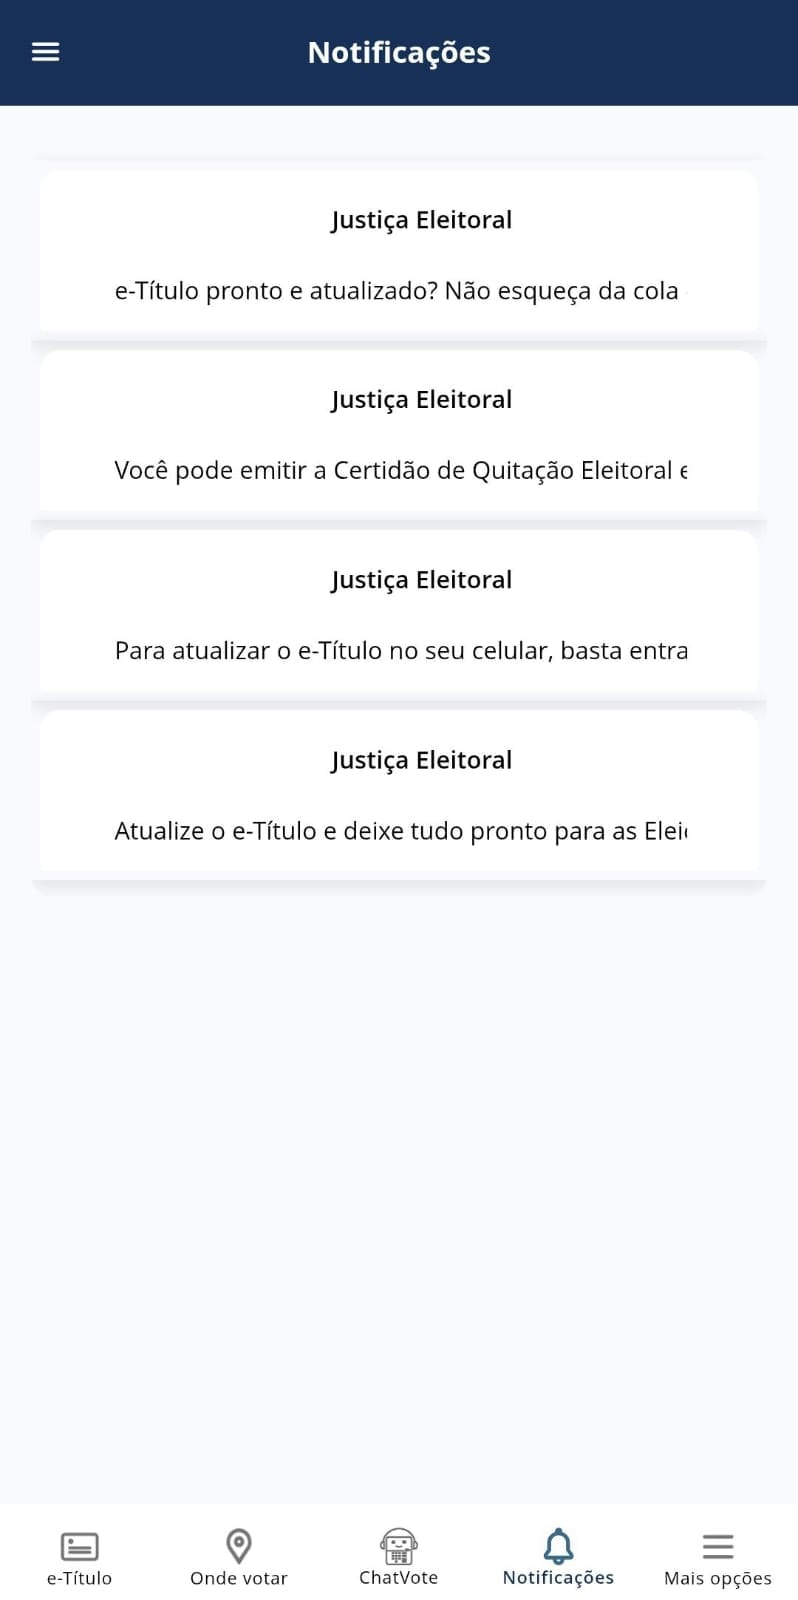
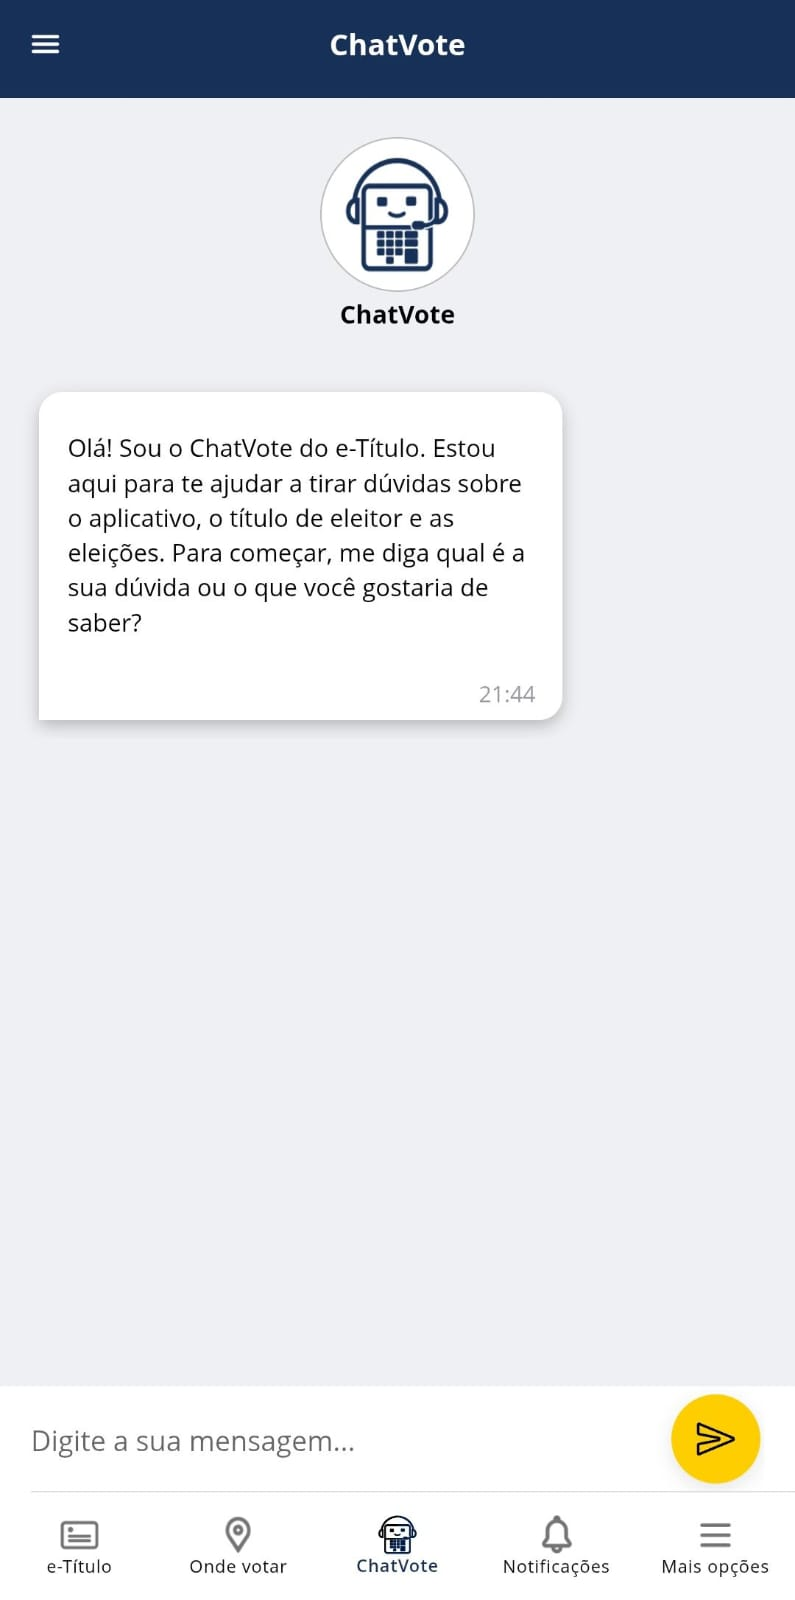
feat(004): ChatVote volta ao guia do e-Titulo como passo 4 (T135)
Captura limpa do ChatVote enviada pelo Henrique. O guia passa a 6 passos:
entrar, titulo, Onde votar (destaca o ChatVote), ChatVote (destaca
Notificacoes), Notificacoes e Mais opcoes. Destaques conferidos sobre as
imagens.

diff --git a/app/lib/l10n/textos_guias.dart b/app/lib/l10n/textos_guias.dart
@@ -399,21 +399,27 @@ abstract final class TextosGuias {
       'Tela principal do e-Título com um título de eleitor de exemplo: foto, nome, número, zona e seção. Embaixo, as opções e-Título, Onde votar, Notificações e Mais opções.';
   /// Passo 3 do e-Título.
   static const String eTituloPasso3 =
-      'Aqui aparecem o lugar onde você vota, a seção e a zona. Para ver os avisos da Justiça Eleitoral, toque em "Notificações", embaixo, a segunda opção da direita.';
+      'Aqui aparecem o lugar onde você vota, a seção e a zona. Para tirar uma dúvida sobre as eleições, toque em "ChatVote", embaixo, no meio.';
   /// Descrição da captura do passo 3 do e-Título.
   static const String eTituloCaptura3 =
       'Tela Onde votar do e-Título, com um mapa e um cartão com a seção, a zona e uma escola de exemplo como local de votação.';
   /// Passo 4 do e-Título.
   static const String eTituloPasso4 =
-      'Aqui chegam os avisos da Justiça Eleitoral. Para ver tudo o que o e-Título faz, toque em "Mais opções", embaixo, à direita.';
+      'No ChatVote você escreve a sua dúvida no campo de baixo e toca na seta amarela para enviar. Para ver os avisos da Justiça Eleitoral, toque em "Notificações", embaixo, a segunda opção da direita.';
   /// Descrição da captura do passo 4 do e-Título.
   static const String eTituloCaptura4 =
-      'Tela de Notificações do e-Título com quatro avisos da Justiça Eleitoral.';
+      'Tela do ChatVote do e-Título, com a mensagem de boas-vindas, o campo Digite a sua mensagem e o botão amarelo de enviar embaixo.';
   /// Passo 5 do e-Título.
   static const String eTituloPasso5 =
-      'Em "Mais opções" ficam as certidões, a justificativa de ausência e "Consultar Situação Eleitoral", que mostra se o seu título está em dia. Agora você já sabe entrar e andar pelo e-Título.';
+      'Aqui chegam os avisos da Justiça Eleitoral. Para ver tudo o que o e-Título faz, toque em "Mais opções", embaixo, à direita.';
   /// Descrição da captura do passo 5 do e-Título.
   static const String eTituloCaptura5 =
+      'Tela de Notificações do e-Título com quatro avisos da Justiça Eleitoral.';
+  /// Passo 6 do e-Título.
+  static const String eTituloPasso6 =
+      'Em "Mais opções" ficam as certidões, a justificativa de ausência e "Consultar Situação Eleitoral", que mostra se o seu título está em dia. Agora você já sabe entrar e andar pelo e-Título.';
+  /// Descrição da captura do passo 6 do e-Título.
+  static const String eTituloCaptura6 =
       'Tela Mais opções do e-Título, com as certidões, a consulta da situação eleitoral, a justificativa de ausência e a impressão do título.';
 
   // Serasa (T081)

diff --git a/app/lib/features/aprendizado/data/guias/e_titulo.dart b/app/lib/features/aprendizado/data/guias/e_titulo.dart
@@ -35,24 +35,31 @@ final Guia guiaETitulo = Guia(
     ),
     Passo(
       captura: CapturaDoGuia.eTitulo3,
-      // A aba "Notificações", embaixo.
-      destaque: RegiaoRelativa(x: 0.61, y: 0.935, largura: 0.17, altura: 0.06),
+      // A aba "ChatVote", embaixo, no meio.
+      destaque: RegiaoRelativa(x: 0.42, y: 0.935, largura: 0.16, altura: 0.06),
       texto: TextosGuias.eTituloPasso3,
       descricaoDaCaptura: TextosGuias.eTituloCaptura3,
     ),
     Passo(
       captura: CapturaDoGuia.eTitulo4,
-      // A aba "Mais opções", embaixo, à direita.
-      destaque: RegiaoRelativa(x: 0.80, y: 0.935, largura: 0.19, altura: 0.06),
+      // A aba "Notificações", embaixo.
+      destaque: RegiaoRelativa(x: 0.61, y: 0.935, largura: 0.17, altura: 0.06),
       texto: TextosGuias.eTituloPasso4,
       descricaoDaCaptura: TextosGuias.eTituloCaptura4,
     ),
     Passo(
       captura: CapturaDoGuia.eTitulo5,
-      // "Consultar Situação Eleitoral".
-      destaque: RegiaoRelativa(x: 0.03, y: 0.43, largura: 0.94, altura: 0.085),
+      // A aba "Mais opções", embaixo, à direita.
+      destaque: RegiaoRelativa(x: 0.80, y: 0.935, largura: 0.19, altura: 0.06),
       texto: TextosGuias.eTituloPasso5,
       descricaoDaCaptura: TextosGuias.eTituloCaptura5,
+    ),
+    Passo(
+      captura: CapturaDoGuia.eTitulo6,
+      // "Consultar Situação Eleitoral".
+      destaque: RegiaoRelativa(x: 0.03, y: 0.43, largura: 0.94, altura: 0.085),
+      texto: TextosGuias.eTituloPasso6,
+      descricaoDaCaptura: TextosGuias.eTituloCaptura6,
     ),
   ],
 );

diff --git a/app/lib/features/aprendizado/domain/guia.dart b/app/lib/features/aprendizado/domain/guia.dart
@@ -170,10 +170,12 @@ final class CapturaDoGuia {
   static const CapturaDoGuia eTitulo2 = CapturaDoGuia._('e-titulo', 2);
   /// Captura 3 do e-Título (Onde votar).
   static const CapturaDoGuia eTitulo3 = CapturaDoGuia._('e-titulo', 3);
-  /// Captura 4 do e-Título (Notificações).
+  /// Captura 4 do e-Título (ChatVote).
   static const CapturaDoGuia eTitulo4 = CapturaDoGuia._('e-titulo', 4);
-  /// Captura 5 do e-Título (Mais opções).
+  /// Captura 5 do e-Título (Notificações).
   static const CapturaDoGuia eTitulo5 = CapturaDoGuia._('e-titulo', 5);
+  /// Captura 6 do e-Título (Mais opções).
+  static const CapturaDoGuia eTitulo6 = CapturaDoGuia._('e-titulo', 6);
 
   // Serasa (T081)
   /// Captura 1 do Serasa.
